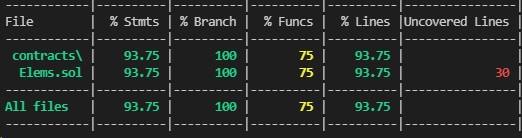
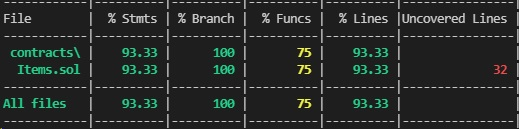
rdy

diff --git a/test/Items.ts b/test/Items.ts
@@ -1,0 +1,76 @@
+const { expect } = require('chai');
+
+describe('Items contract', () => {
+    
+    let Items, items, owner, addr1, addr2;
+
+    beforeEach(async () => {
+        Items = await hre.ethers.getContractFactory("Items");
+
+        items = await Items.deploy();
+
+        [owner, addr1, addr2] = await hre.ethers.getSigners();
+
+
+    });
+
+    describe("Mint", function () {
+
+        it("Should mint", async function () {
+            await items.mintNFT(owner.address, 1, 1);
+            await items.mintNFT(owner.address, 2, 2);
+            
+            expect(await items.balanceOf(owner.address, 1)).to.equal("1");
+            expect(await items.balanceOf(owner.address, 2)).to.equal("2");
+        });
+
+        it("Should give minter role", async function () {
[1 lines of base64/hex data omitted]
+            await items.connect(addr1).mintNFT(addr1.address, 1, 1);
+            
+            expect(await items.balanceOf(addr1.address, 1)).to.equal("1");
+        });
+
+        it("Should mint without minter role", async function () {
+
+            await expect(items.connect(addr1).mintNFT(addr1.address, 1, 1)).to.be.revertedWith('Caller is not a minter');
+            
+        });
+
+    });
+
+    describe("Burn", function () {
+
+        it("Should burn", async function () {
+            await items.mintNFT(owner.address, 1, 1);
+            await items.mintNFT(owner.address, 2, 2);
+
+            await items.burnNFT(owner.address, 1, 1);
+            await items.burnNFT(owner.address, 2, 1);
+            
+            expect(await items.balanceOf(owner.address, 1)).to.equal("0");
+            expect(await items.balanceOf(owner.address, 2)).to.equal("1");
+        });
+
+        it("Should give burner role", async function () {
+            await items.mintNFT(addr2.address, 1, 2);
[1 lines of base64/hex data omitted]
+            await items.connect(addr1).burnNFT(addr2.address, 1, 1);
+            
+            expect(await items.balanceOf(addr2.address, 1)).to.equal("1");
+        });
+
+        it("Should burn without minter role", async function () {
+            await items.mintNFT(addr2.address, 1, 2);
+            await expect(items.connect(addr1).burnNFT(addr2.address, 1, 1)).to.be.revertedWith('Caller is not a burner');
+            
+        });
+
+        it("Should burn if owner dont have enough tokens", async function () {
+            await items.mintNFT(owner.address, 1, 1);
+            await expect(items.burnNFT(owner.address, 1, 2)).to.be.revertedWith('Owner dont have enough tokens');
+        });
+
+    });
+
+});

diff --git a/README.md b/README.md
@@ -1,7 +1,7 @@
-ELEMS_ADDRESS = 0xf730A136cd2ee2e3749EE285D94149f30cB75e96
+ITEMS_ADDRESS = 0x45a8Ac6E1Bc569bc29DD52F9fa1BE7b4eEADcfEF
 
-Etherscan: https://rinkeby.etherscan.io/address/0xf730A136cd2ee2e3749EE285D94149f30cB75e96
+Etherscan: https://rinkeby.etherscan.io/address/0x45a8Ac6E1Bc569bc29DD52F9fa1BE7b4eEADcfEF
 
-COLLECTION: https://testnets.opensea.io/collection/elems-v4
+COLLECTION: https://testnets.opensea.io/collection/unidentified-contract-eo3e70j2oj
 
 ![alt text](coverage1.jpg)
